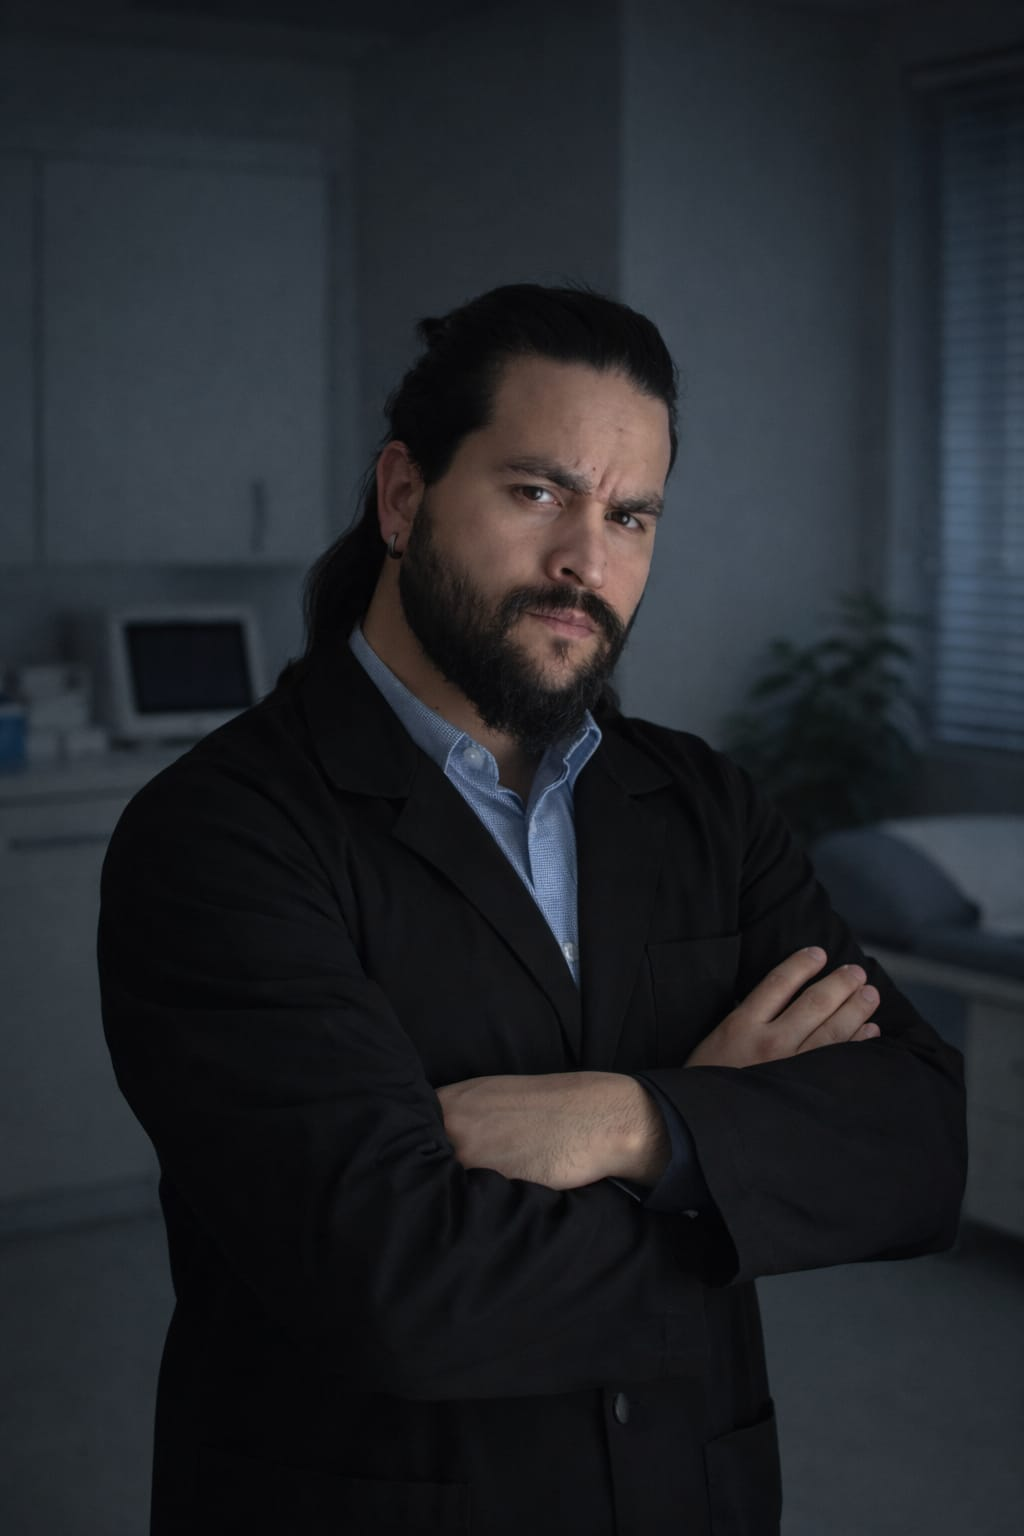
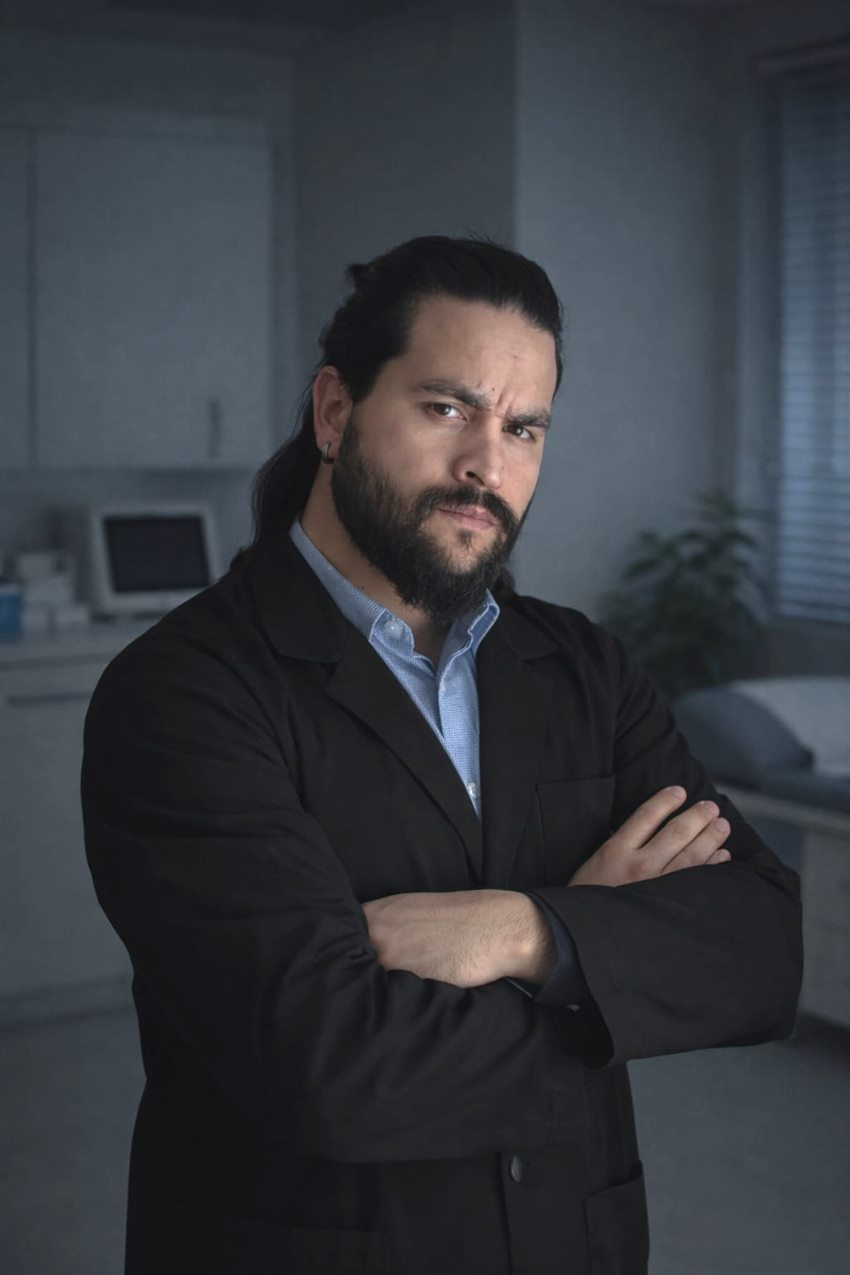
feat: SEO tecnico, acessibilidade e performance (Fase 5)
- Schema JSON-LD Physiotherapy/LocalBusiness na home
- OG/Twitter cards completos + imagem de compartilhamento 1200x630 (og-cover)
- Selo de autoridade no hero (CREFITO, particular, presencial/domiciliar)
- Links internos "Leia tambem" entre os 3 artigos
- Imagens otimizadas (atendimento, perfil clareada) + width/height anti-CLS
- Nota LGPD no formulario + aviso medico no rodape
- Guia do Google Business (docs/google-business.md)

diff --git a/index.html b/index.html
@@ -6,13 +6,22 @@
   <title>Alysson Mattos · Fisioterapeuta em Tangará da Serra (MT)</title>
   <meta name="description" content="Fisioterapia ortopédica, esportiva, domiciliar e geriátrica em Tangará da Serra (MT). Abordagem ativa, focada em fortalecimento e prevenção de lesões. Atendimento particular." />
   <meta name="author" content="Alysson Mattos" />
+  <link rel="canonical" href="https://ismailepereira.github.io/alysson-mattos-site/" />
 
   <!-- Open Graph -->
   <meta property="og:type" content="website" />
+  <meta property="og:url" content="https://ismailepereira.github.io/alysson-mattos-site/" />
+  <meta property="og:site_name" content="Alysson Mattos · Fisioterapeuta" />
   <meta property="og:title" content="Alysson Mattos · Fisioterapeuta em Tangará da Serra (MT)" />
   <meta property="og:description" content="Abordagem ativa, focada em fortalecimento e prevenção de lesões. Atendimento particular em Tangará da Serra (MT)." />
-  <meta property="og:image" content="./assets/logo/icone-teal.png" />
+  <meta property="og:image" content="https://ismailepereira.github.io/alysson-mattos-site/assets/img/og-cover.png" />
+  <meta property="og:image:width" content="1200" />
+  <meta property="og:image:height" content="630" />
   <meta property="og:locale" content="pt_BR" />
+  <meta name="twitter:card" content="summary_large_image" />
+  <meta name="twitter:title" content="Alysson Mattos · Fisioterapeuta em Tangará da Serra (MT)" />
+  <meta name="twitter:description" content="Fisioterapia com abordagem ativa: fortalecimento e prevenção de lesões." />
+  <meta name="twitter:image" content="https://ismailepereira.github.io/alysson-mattos-site/assets/img/og-cover.png" />
 
   <!-- Favicons -->
   <link rel="icon" type="image/png" sizes="32x32" href="./assets/icons/favicon-32.png" />
@@ -25,6 +34,24 @@
   <link href="https://fonts.googleapis.com/css2?family=Inter:wght@400;500;600&family=Poppins:wght@600;700;800&display=swap" rel="stylesheet" />
 
   <link rel="stylesheet" href="./assets/css/styles.css" />
+  <script type="application/ld+json">
+  {
+    "@context": "https://schema.org",
+    "@type": "Physiotherapy",
+    "name": "Alysson Mattos · Fisioterapeuta",
+    "description": "Fisioterapia ortopédica, esportiva, domiciliar e geriátrica com abordagem ativa, em Tangará da Serra (MT). Atendimento particular.",
+    "url": "https://ismailepereira.github.io/alysson-mattos-site/",
+    "image": "https://ismailepereira.github.io/alysson-mattos-site/assets/img/og-cover.png",
+    "telephone": "+5565999677158",
+    "email": "[email redacted]",
+    "priceRange": "$$",
+    "medicalSpecialty": "Physiotherapy",
+    "areaServed": { "@type": "City", "name": "Tangará da Serra", "addressRegion": "MT", "addressCountry": "BR" },
+    "address": { "@type": "PostalAddress", "addressLocality": "Tangará da Serra", "addressRegion": "MT", "addressCountry": "BR" },
+    "founder": { "@type": "Person", "name": "Alysson Mattos", "jobTitle": "Fisioterapeuta", "identifier": "CREFITO 255433-F" },
+    "sameAs": ["https://instagram.com/alyssonmattosfisio"]
+  }
+  </script>
 </head>
 <body>
   <a class="skip-link" href="#conteudo">Pular para o conteúdo</a>
@@ -78,9 +105,14 @@
             </a>
             <a class="btn btn--outline btn--lg" href="#diferencial">Conhecer o tratamento</a>
           </div>
+          <ul class="hero__trust">
+            <li><svg viewBox="0 0 24 24" fill="none" stroke="currentColor" stroke-width="2" stroke-linecap="round" stroke-linejoin="round"><path d="M20 6L9 17l-5-5"/></svg> CREFITO 255433-F</li>
+            <li><svg viewBox="0 0 24 24" fill="none" stroke="currentColor" stroke-width="2" stroke-linecap="round" stroke-linejoin="round"><path d="M20 6L9 17l-5-5"/></svg> Atendimento particular</li>
+            <li><svg viewBox="0 0 24 24" fill="none" stroke="currentColor" stroke-width="2" stroke-linecap="round" stroke-linejoin="round"><path d="M20 6L9 17l-5-5"/></svg> Presencial e domiciliar</li>
+          </ul>
         </div>
         <div class="hero__media reveal">
-          <img src="./assets/img/atendimento.jpg" alt="Alysson Mattos realizando atendimento de fisioterapia" loading="eager" />
+          <img src="./assets/img/atendimento.jpg" width="1000" height="1251" alt="Alysson Mattos realizando atendimento de fisioterapia" loading="eager" fetchpriority="high" />
         </div>
       </div>
     </section>
@@ -193,7 +225,7 @@
       <div class="container">
         <div class="sobre__grid">
           <div class="sobre__photo reveal">
-            <img src="./assets/img/perfil.jpg" alt="Alysson Mattos, fisioterapeuta" loading="lazy" />
+            <img src="./assets/img/perfil.jpg" width="850" height="1275" alt="Alysson Mattos, fisioterapeuta" loading="lazy" />
           </div>
           <div class="reveal">
             <span class="eyebrow">Quem vai te atender</span>
@@ -325,7 +357,7 @@
               <svg class="ico" viewBox="0 0 24 24" aria-hidden="true"><path d="M.057 24l1.687-6.163a11.867 11.867 0 01-1.587-5.946C.16 5.335 5.495 0 12.05 0a11.82 11.82 0 018.413 3.488 11.82 11.82 0 013.48 8.414c-.003 6.557-5.338 11.892-11.893 11.892a11.9 11.9 0 01-5.688-1.448L.057 24zm6.597-3.807c1.676.995 3.276 1.591 5.392 1.592 5.448 0 9.886-4.434 9.889-9.885.002-5.462-4.415-9.89-9.881-9.892-5.452 0-9.887 4.434-9.889 9.884a9.86 9.86 0 001.51 5.26l-.999 3.648 3.738-.979zm11.387-5.464c-.074-.124-.272-.198-.57-.347-.297-.149-1.758-.868-2.031-.967-.272-.099-.47-.149-.669.149-.198.297-.768.967-.941 1.165-.173.198-.347.223-.644.074-.297-.149-1.255-.462-2.39-1.475-.883-.788-1.48-1.761-1.653-2.059-.173-.297-.018-.458.13-.606.134-.133.297-.347.446-.521.151-.172.2-.296.3-.495.099-.198.05-.372-.025-.521-.075-.148-.669-1.611-.916-2.206-.242-.579-.487-.501-.669-.51l-.57-.01c-.198 0-.52.074-.792.372-.272.297-1.04 1.016-1.04 2.479 0 1.462 1.065 2.875 1.213 3.074.149.198 2.096 3.2 5.077 4.487.709.306 1.263.489 1.694.626.712.226 1.36.194 1.872.118.571-.085 1.758-.719 2.006-1.413.248-.694.248-1.289.173-1.413z"/></svg>
               Enviar pelo WhatsApp
             </button>
-            <p class="form__note">Ao enviar, abrimos o WhatsApp com sua mensagem pronta.</p>
+            <p class="form__note">Ao enviar, abrimos o WhatsApp com sua mensagem pronta. Seus dados são usados apenas para este contato e não são compartilhados com terceiros.</p>
           </form>
         </div>
       </div>
@@ -358,6 +390,7 @@
           </ul>
         </div>
       </div>
+      <p class="footer__disclaimer">Este site tem caráter informativo e não substitui a consulta ou avaliação presencial com um profissional de saúde.</p>
       <div class="footer__bottom">
         <span class="footer__crefito">CREFITO 255433-F</span>
         <span>Desenvolvido por <a href="https://ismailepereira.github.io/" target="_blank" rel="noopener">ismailepereira</a> · © <span data-year>2026</span></span>

diff --git a/assets/css/styles.css b/assets/css/styles.css
@@ -152,7 +152,10 @@ p  { margin-bottom: 1rem; }
 .hero__grid { display: grid; grid-template-columns: 1.1fr .9fr; gap: clamp(2rem, 4vw, 3.5rem); align-items: center; }
 .hero__title { margin-bottom: 1rem; }
 .hero__cta { display: flex; flex-wrap: wrap; gap: .9rem; margin-top: 1.8rem; }
-.hero__media img { border-radius: var(--radius); box-shadow: var(--shadow); object-fit: cover; aspect-ratio: 4/5; width: 100%; }
+.hero__media img { border-radius: var(--radius); box-shadow: var(--shadow); object-fit: cover; aspect-ratio: 4/5; width: 100%; height: auto; }
+.hero__trust { display: flex; flex-wrap: wrap; gap: .6rem 1.4rem; margin-top: 1.8rem; }
+.hero__trust li { display: flex; align-items: center; gap: .45rem; font-size: .92rem; font-weight: 500; color: var(--c-petrol); }
+.hero__trust svg { width: 18px; height: 18px; color: var(--c-teal-600); flex: none; }
 @media (max-width: 860px) { .hero__grid { grid-template-columns: 1fr; } .hero__media { order: -1; max-width: 420px; } }
 
 /* ---------- 8. Cards ---------- */
@@ -178,9 +181,10 @@ p  { margin-bottom: 1rem; }
 .footer__grid { display: grid; grid-template-columns: 1.4fr 1fr 1fr; gap: 2rem; margin-bottom: 2rem; }
 .footer__grid h4 { color: #fff; font-size: 1rem; margin-bottom: .9rem; }
 .footer img.logo { height: 54px; margin-bottom: 1rem; }
-.footer__bottom { border-top: 1px solid rgba(255,255,255,.12); padding-top: 1.3rem; display: flex;
+.footer__bottom { padding-top: .6rem; display: flex;
                   flex-wrap: wrap; gap: .6rem 1.2rem; justify-content: space-between; font-size: var(--fs-small); }
 .footer__crefito { font-weight: 600; color: #fff; }
+.footer__disclaimer { font-size: .8rem; color: #92a6b4; border-top: 1px solid rgba(255,255,255,.12); padding-top: 1.2rem; margin: 0 0 .4rem; }
 @media (max-width: 700px){ .footer__grid { grid-template-columns: 1fr; } }
 
 /* ---------- 10. WhatsApp flutuante ---------- */
@@ -311,6 +315,12 @@ p  { margin-bottom: 1rem; }
 .faq details[open] summary::after { content: "–"; }
 .faq details p { padding-bottom: 1rem; margin: 0; color: var(--c-muted); }
 
+.related { margin-top: 2.5rem; padding-top: 1.5rem; border-top: 1px solid var(--c-border); }
+.related h3 { font-size: 1.1rem; margin-bottom: .9rem; }
+.related ul { list-style: none; margin: 0; display: grid; gap: .7rem; }
+.related li { margin: 0; padding: 0; }
+.related a { font-weight: 600; color: var(--c-petrol); }
+.related a:hover { color: var(--c-teal-600); }
 .author-box { display: flex; gap: 1.1rem; align-items: center; background: var(--c-teal-100);
               border-radius: var(--radius); padding: 1.4rem; margin-top: 2.5rem; }
 .author-box img { width: 64px; height: 64px; border-radius: 50%; object-fit: cover; flex: none; }

diff --git a/dor-lombar-repouso-nem-sempre-resolve.html b/dor-lombar-repouso-nem-sempre-resolve.html
@@ -9,7 +9,9 @@
   <meta property="og:type" content="article" />
   <meta property="og:title" content="Dor lombar: por que o repouso nem sempre resolve" />
   <meta property="og:description" content="Por que o movimento orientado costuma ajudar mais que o repouso prolongado na dor nas costas." />
-  <meta property="og:image" content="./assets/logo/icone-teal.png" />
+  <meta property="og:image" content="https://ismailepereira.github.io/alysson-mattos-site/assets/img/og-cover.png" />
+  <meta name="twitter:card" content="summary_large_image" />
+  <meta name="twitter:image" content="https://ismailepereira.github.io/alysson-mattos-site/assets/img/og-cover.png" />
   <link rel="icon" type="image/png" sizes="32x32" href="./assets/icons/favicon-32.png" />
   <link rel="apple-touch-icon" href="./assets/icons/favicon-180.png" />
   <link rel="preconnect" href="https://fonts.googleapis.com" />
@@ -138,8 +140,16 @@
             </details>
           </div>
 
+          <aside class="related">
+            <h3>Leia também</h3>
+            <ul>
+              <li><a href="dor-no-joelho-ao-agachar-descer-escada.html">Dor no joelho ao agachar ou descer escada: o que pode ser</a></li>
+              <li><a href="fisioterapia-ativa-ou-passiva.html">Fisioterapia ativa ou passiva: qual a diferença na prática</a></li>
+            </ul>
+          </aside>
+
           <div class="author-box">
-            <img src="./assets/logo/icone.png" alt="" />
+            <img src="./assets/logo/icone.png" width="64" height="64" alt="" />
             <div>
               <strong>Alysson Mattos · Fisioterapeuta</strong>
               <p>Atendimento particular em Tangará da Serra (MT), com abordagem ativa focada em fortalecimento e prevenção. CREFITO 255433-F.</p>

diff --git a/dor-no-joelho-ao-agachar-descer-escada.html b/dor-no-joelho-ao-agachar-descer-escada.html
@@ -9,7 +9,9 @@
   <meta property="og:type" content="article" />
   <meta property="og:title" content="Dor no joelho ao agachar ou descer escada: o que pode ser" />
   <meta property="og:description" content="Causas comuns da dor na frente do joelho e o papel do fortalecimento na recuperação." />
-  <meta property="og:image" content="./assets/logo/icone-teal.png" />
+  <meta property="og:image" content="https://ismailepereira.github.io/alysson-mattos-site/assets/img/og-cover.png" />
+  <meta name="twitter:card" content="summary_large_image" />
+  <meta name="twitter:image" content="https://ismailepereira.github.io/alysson-mattos-site/assets/img/og-cover.png" />
   <link rel="icon" type="image/png" sizes="32x32" href="./assets/icons/favicon-32.png" />
   <link rel="apple-touch-icon" href="./assets/icons/favicon-180.png" />
   <link rel="preconnect" href="https://fonts.googleapis.com" />
@@ -135,8 +137,16 @@
             </details>
           </div>
 
+          <aside class="related">
+            <h3>Leia também</h3>
+            <ul>
+              <li><a href="dor-lombar-repouso-nem-sempre-resolve.html">Dor lombar: por que o repouso nem sempre resolve</a></li>
+              <li><a href="fisioterapia-ativa-ou-passiva.html">Fisioterapia ativa ou passiva: qual a diferença na prática</a></li>
+            </ul>
+          </aside>
+
           <div class="author-box">
-            <img src="./assets/logo/icone.png" alt="" />
+            <img src="./assets/logo/icone.png" width="64" height="64" alt="" />
             <div>
               <strong>Alysson Mattos · Fisioterapeuta</strong>
               <p>Atendimento particular em Tangará da Serra (MT), com abordagem ativa focada em fortalecimento e prevenção. CREFITO 255433-F.</p>

diff --git a/fisioterapia-ativa-ou-passiva.html b/fisioterapia-ativa-ou-passiva.html
@@ -9,7 +9,9 @@
   <meta property="og:type" content="article" />
   <meta property="og:title" content="Fisioterapia ativa ou passiva: qual a diferença na prática" />
   <meta property="og:description" content="Por que a parte ativa do tratamento faz o resultado durar." />
-  <meta property="og:image" content="./assets/logo/icone-teal.png" />
+  <meta property="og:image" content="https://ismailepereira.github.io/alysson-mattos-site/assets/img/og-cover.png" />
+  <meta name="twitter:card" content="summary_large_image" />
+  <meta name="twitter:image" content="https://ismailepereira.github.io/alysson-mattos-site/assets/img/og-cover.png" />
   <link rel="icon" type="image/png" sizes="32x32" href="./assets/icons/favicon-32.png" />
   <link rel="apple-touch-icon" href="./assets/icons/favicon-180.png" />
   <link rel="preconnect" href="https://fonts.googleapis.com" />
@@ -132,8 +134,16 @@
             </details>
           </div>
 
+          <aside class="related">
+            <h3>Leia também</h3>
+            <ul>
+              <li><a href="dor-lombar-repouso-nem-sempre-resolve.html">Dor lombar: por que o repouso nem sempre resolve</a></li>
+              <li><a href="dor-no-joelho-ao-agachar-descer-escada.html">Dor no joelho ao agachar ou descer escada: o que pode ser</a></li>
+            </ul>
+          </aside>
+
           <div class="author-box">
-            <img src="./assets/logo/icone.png" alt="" />
+            <img src="./assets/logo/icone.png" width="64" height="64" alt="" />
             <div>
               <strong>Alysson Mattos · Fisioterapeuta</strong>
               <p>Atendimento particular em Tangará da Serra (MT), com abordagem ativa focada em fortalecimento e prevenção. CREFITO 255433-F.</p>

diff --git a/blog.html b/blog.html
@@ -9,7 +9,9 @@
   <meta property="og:type" content="website" />
   <meta property="og:title" content="Blog · Dicas de Fisioterapia — Alysson Mattos" />
   <meta property="og:description" content="Conteúdo sobre dor, movimento e prevenção, por um fisioterapeuta de Tangará da Serra (MT)." />
-  <meta property="og:image" content="./assets/logo/icone-teal.png" />
+  <meta property="og:image" content="https://ismailepereira.github.io/alysson-mattos-site/assets/img/og-cover.png" />
+  <meta name="twitter:card" content="summary_large_image" />
+  <meta name="twitter:image" content="https://ismailepereira.github.io/alysson-mattos-site/assets/img/og-cover.png" />
   <link rel="icon" type="image/png" sizes="32x32" href="./assets/icons/favicon-32.png" />
   <link rel="icon" type="image/png" sizes="16x16" href="./assets/icons/favicon-16.png" />
   <link rel="apple-touch-icon" href="./assets/icons/favicon-180.png" />